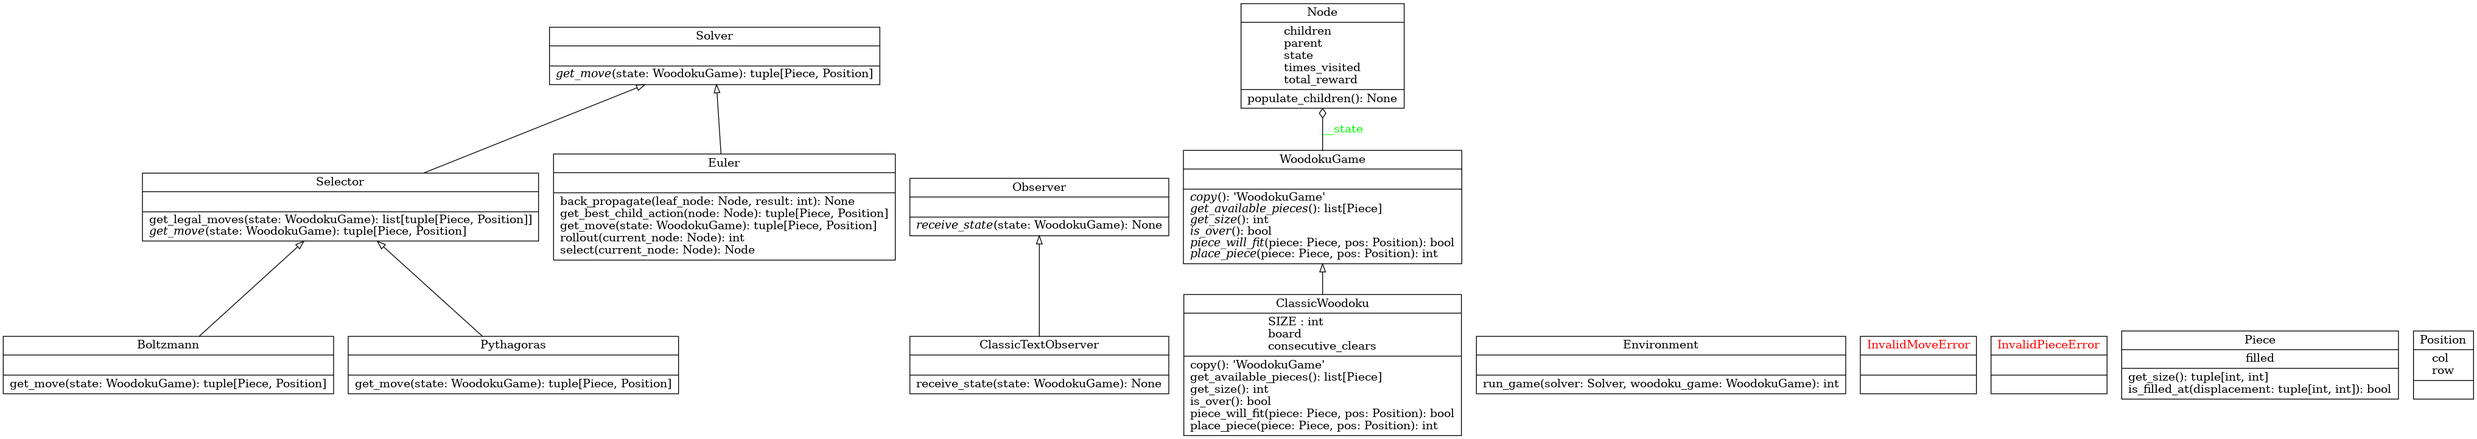
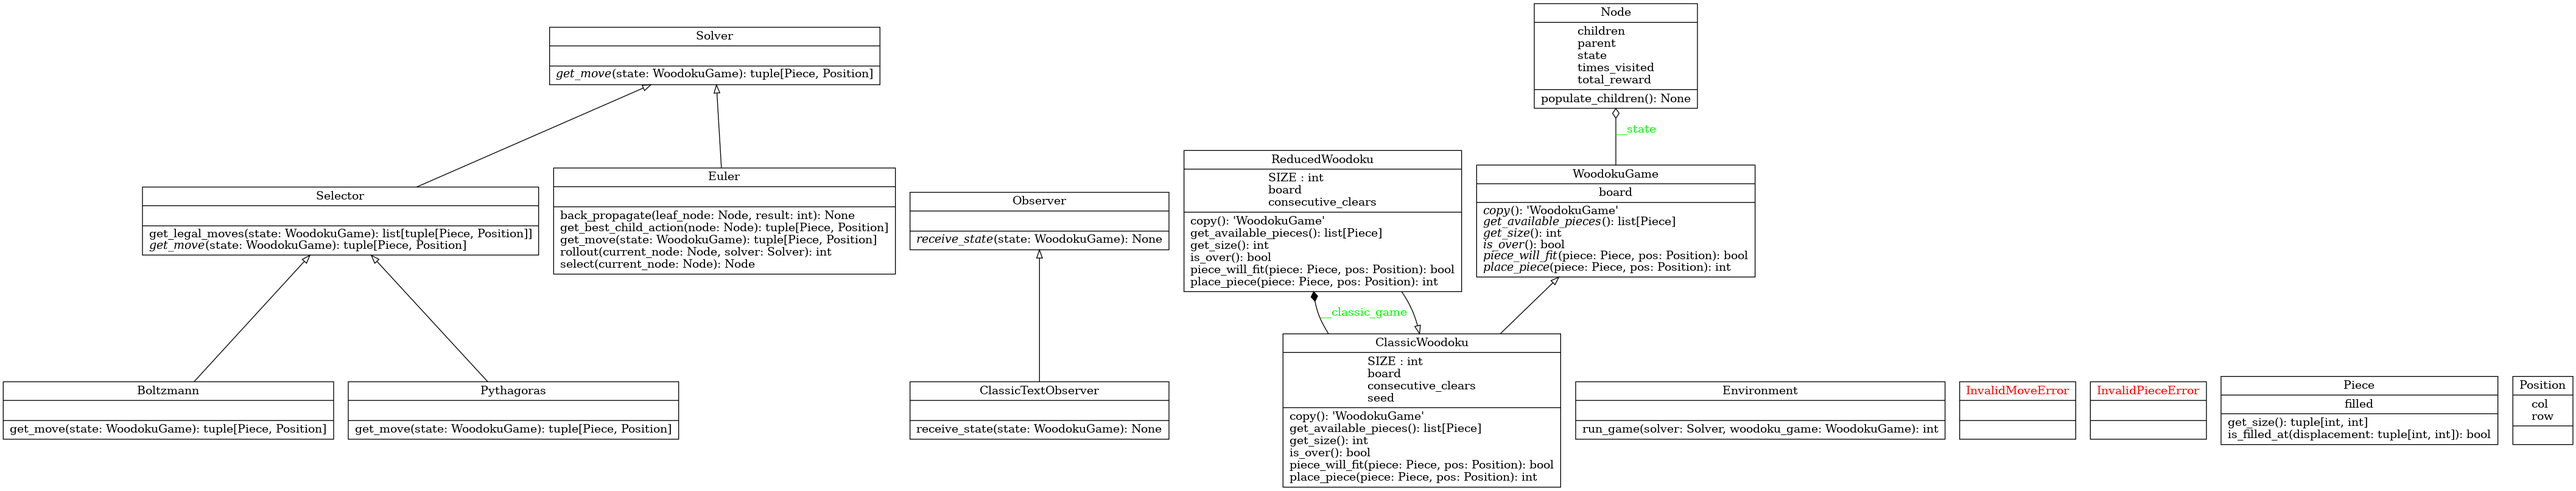
class images and small refactoring

diff --git a/Main/Solver/euler.py b/Main/Solver/euler.py
@@ -21,6 +21,7 @@ class Node():
                  times_visited: int,
                  children: Optional[dict[tuple[Piece, Position], "Node"]]=None,
                  parent: Optional["Node"] = None):
+
         self.__state = state
         self.__total_reward = total_reward
         self.__times_visited = times_visited
@@ -80,8 +81,9 @@ class Euler(Solver):
     Monte Carlo Tree Search
     """
 
-    def __init__(self, seconds_per_move: int = 5):
+    def __init__(self, seconds_per_move: float = 5, seed: int = 0):
         self.__seconds_per_move = seconds_per_move
+        random.seed(seed)
 
     def get_move(self, state: WoodokuGame) -> tuple[Piece, Position]:
         """Returns a move as determined by a Monte-Carlo Tree Search on the
@@ -156,13 +158,13 @@ class Euler(Solver):
         Returns:
             int: The value of this vertex as computed via roll out.
         """
-        # curr_board = current_node.state.board
-        # roll_score = 0
-        # for row in range(len(curr_board)):
-        #     for col in range(len(curr_board[row])):
-        #         roll_score += 1 if curr_board[row][col] else 0
-        # return roll_score
-        return Environment().run_game(solver, current_node.state)
+        curr_board = current_node.state.board
+        roll_score = 0
+        for row in range(len(curr_board)):
+            for col in range(len(curr_board[row])):
+                roll_score += -10 if curr_board[row][col] else 1
+        return roll_score
+        # return Environment().run_game(solver, current_node.state)
 
     def back_propagate(self, leaf_node: Node, result: int) -> None:
         """Propagates the value of this vertex back up the tree to the parent
@@ -199,7 +201,6 @@ class Euler(Solver):
             if(best_child.total_reward / best_child.times_visited < child.total_reward / child.times_visited):
                 best_child = child
                 best_action = action
-                print(f"Found better: {best_child.total_reward / best_child.times_visited}")
 
         return best_action
 

diff --git a/Main/Environment/environment.py b/Main/Environment/environment.py
@@ -7,6 +7,8 @@ from Main.Game.woodoku_game import WoodokuGame
 from Main.Solver.solver import Solver
 from Main.Game.classic_woodoku import ClassicWoodoku
 
+testing_seed = 955
+
 class Environment:
     def __init__(self, observers: Optional[list[Observer]]= None):
         if(observers is None):
@@ -58,7 +60,7 @@ if __name__ == "__main__":
 
     for i in range(n):
         start = time.perf_counter()
-        score = env.run_game(Euler(seconds_per_move=5), ClassicWoodoku(seed=i))
+        score = env.run_game(Euler(seconds_per_move=0.1, seed=testing_seed), ClassicWoodoku(seed=testing_seed))
 
         single_run_time = time.perf_counter() - start
         total_time += single_run_time
